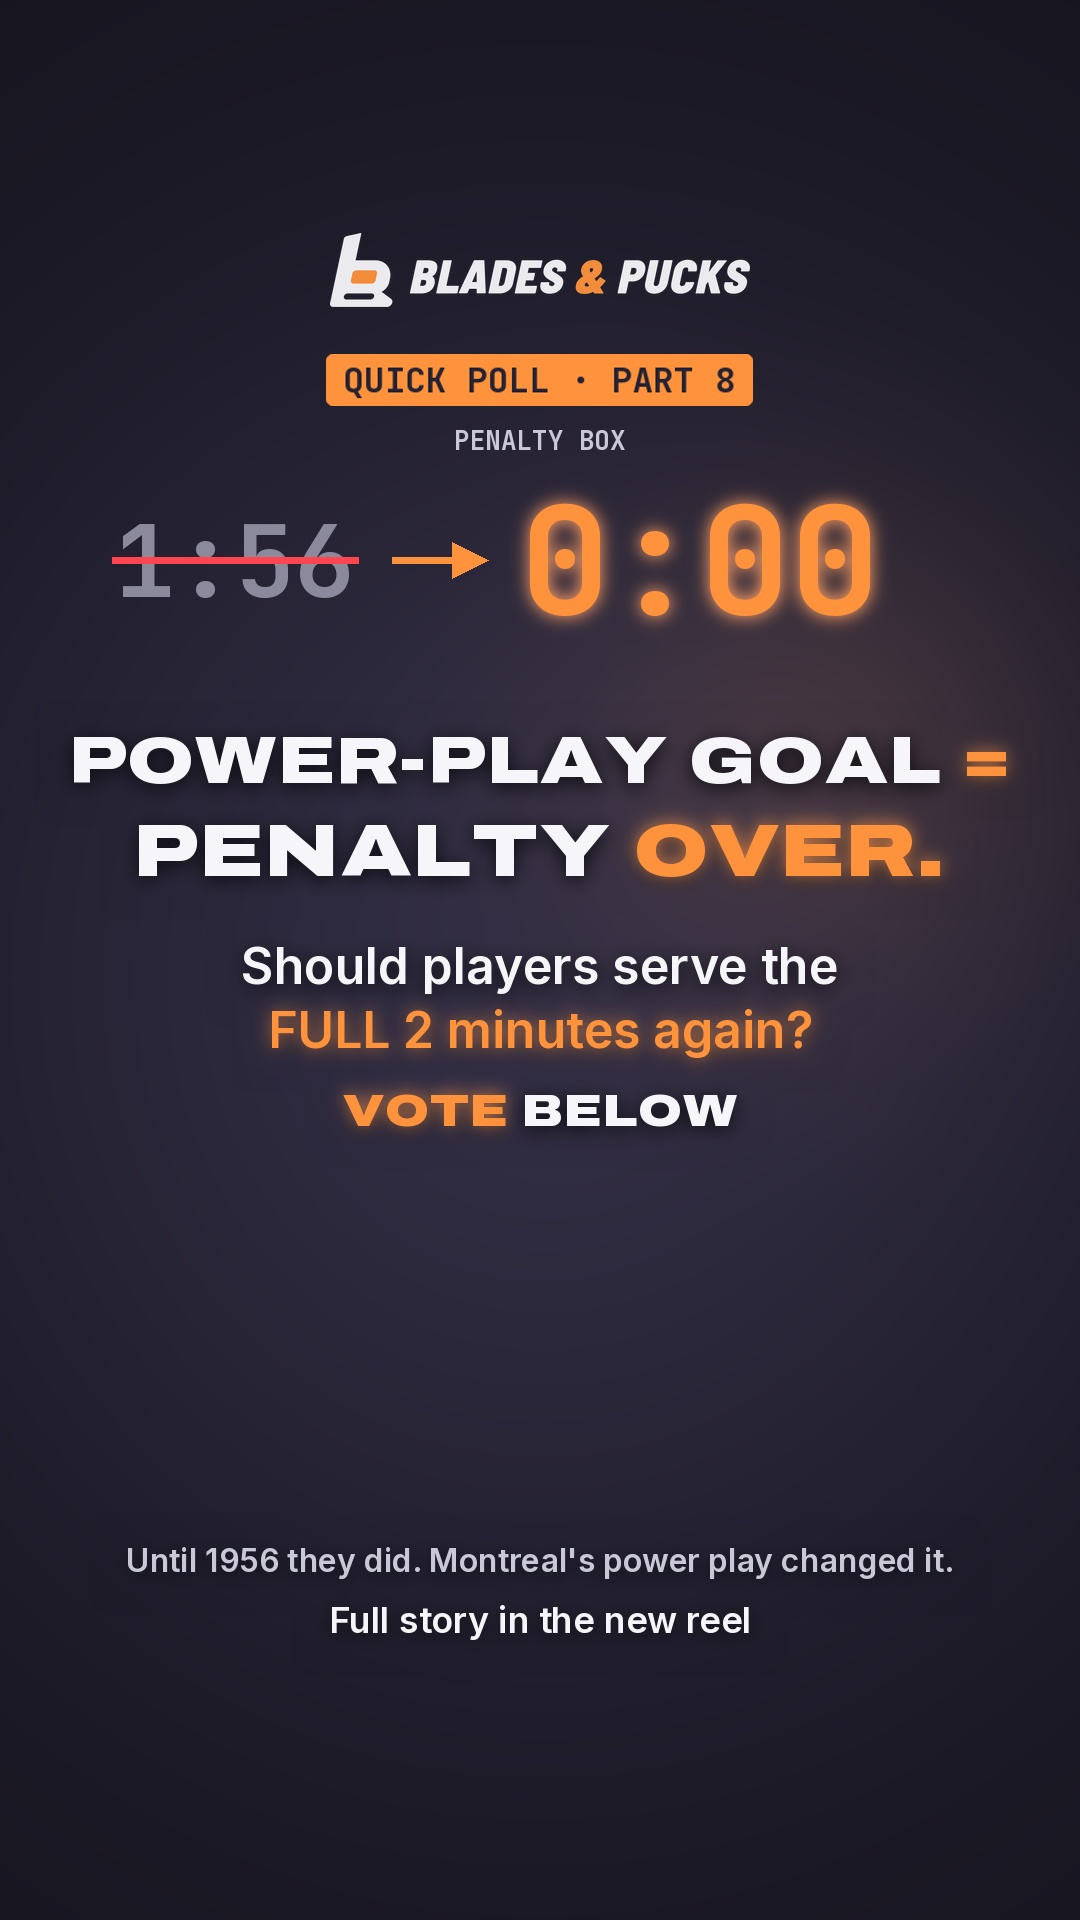
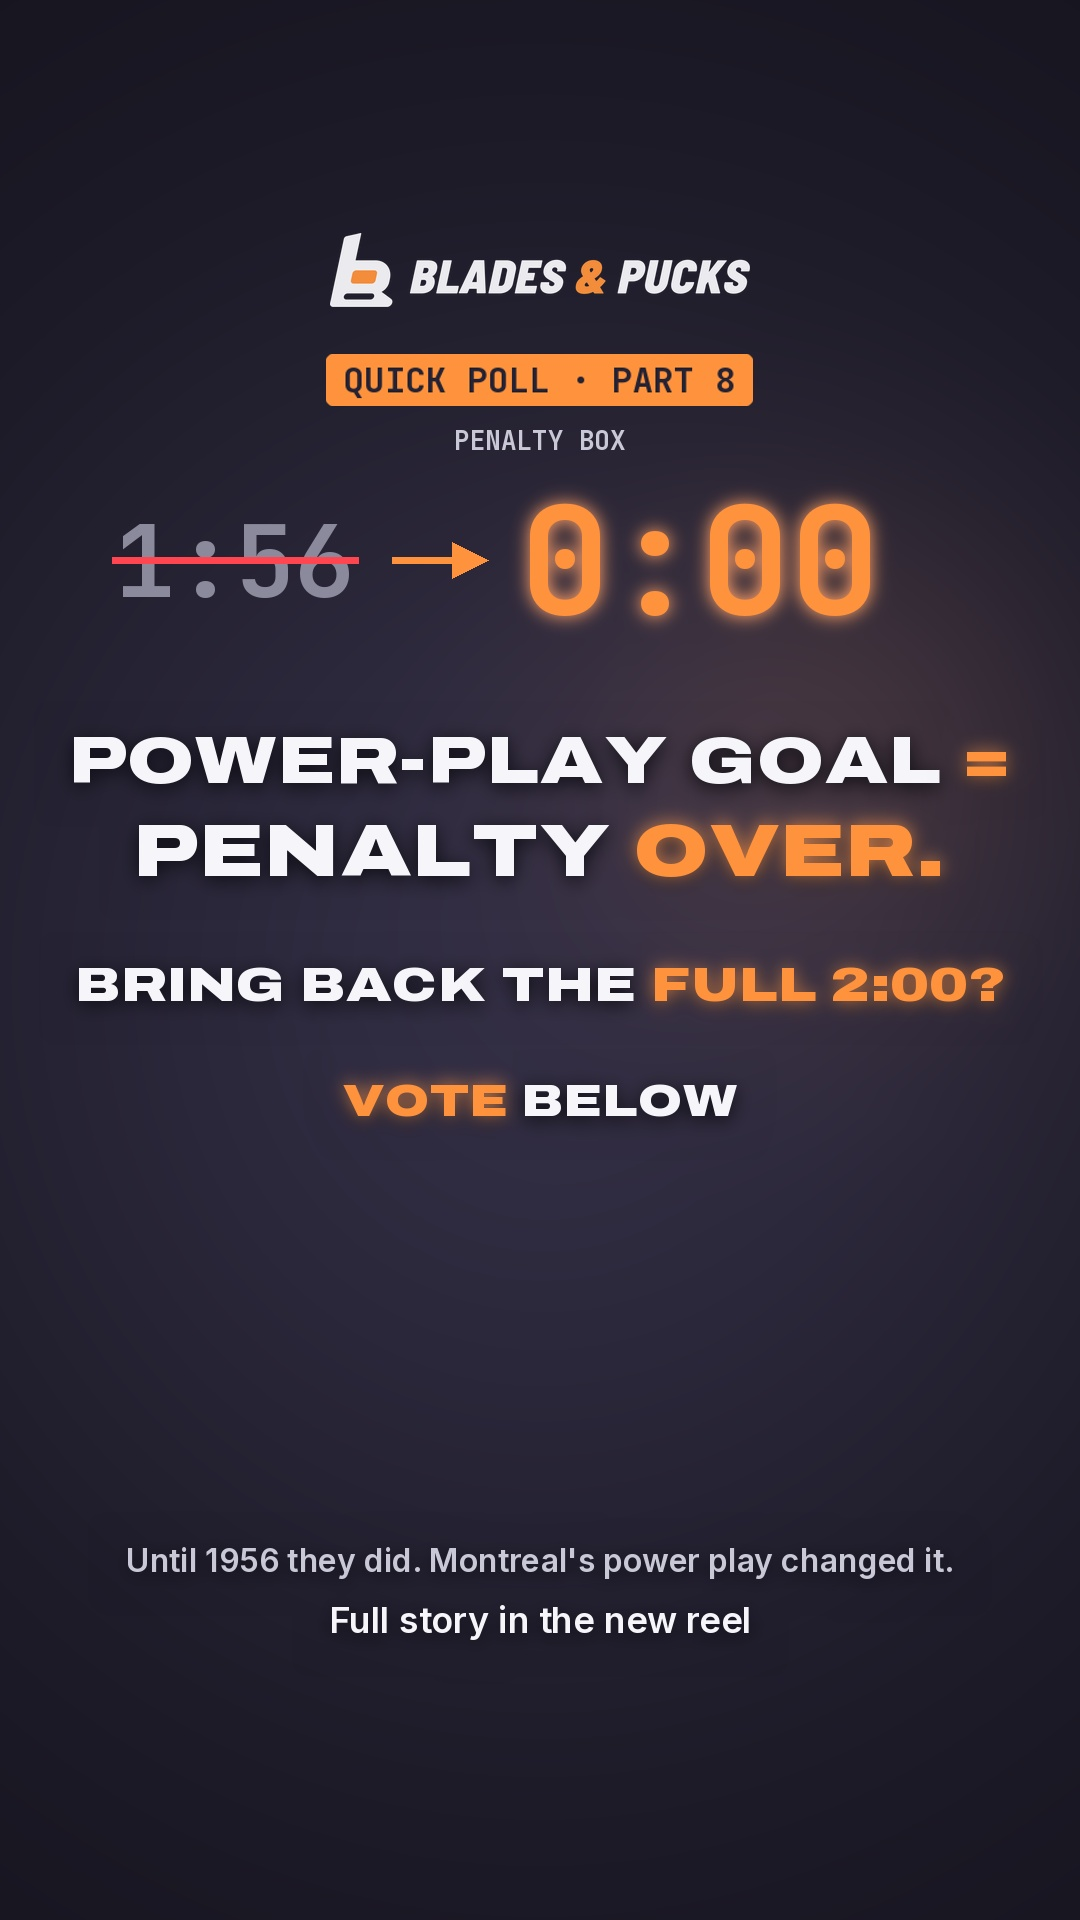
Umfrage-Story: kürzere Frage ('Bring back the full 2:00?')
Claude-Session: https://claude.ai/code/session_01BetfT43jNLNnGvwcngabuh

Changed region(s): [[0.0611, 0.4688, 0.9472, 0.5938]]

diff --git a/hockey-reel/story_poll8.py b/hockey-reel/story_poll8.py
@@ -33,10 +33,10 @@ def main():
     # Frage
     N.NLine([("POWER-PLAY", WHITE), ("GOAL", WHITE), ("=", ORANGE)], "x9", 74, 540, 760, [-5] * 3, None).render(img, 0)
     N.NLine([("PENALTY", WHITE), ("OVER.", ORANGE)], "x9", 74, 540, 850, [-5] * 2, None).render(img, 0)
-    N.NLine([("Should players serve the", WHITE)], "in6", 50, 540, 965, [-5], None, track=0).render(img, 0)
-    N.NLine([("FULL 2 minutes again?", ORANGE)], "in6", 50, 540, 1030, [-5], None, track=0).render(img, 0)
+    N.NLine([("BRING", WHITE), ("BACK", WHITE), ("THE", WHITE), ("FULL", ORANGE), ("2:00?", ORANGE)], "x9", 60, 540, 985,
+            [-5] * 5, None).render(img, 0)
     # Platz für den Umfrage-Sticker (ca. y 1150-1450) + Hinweis
-    N.NLine([("VOTE", ORANGE), ("BELOW", WHITE)], "x9", 44, 540, 1110, [-5] * 2, None).render(img, 0)
+    N.NLine([("VOTE", ORANGE), ("BELOW", WHITE)], "x9", 44, 540, 1100, [-5] * 2, None).render(img, 0)
     N.NLine([("Until 1956 they did. Montreal's power play changed it.", GREY)], "in6", 32, 540, 1560, [-5], None,
             track=0, maxw=980).render(img, 0)
     N.NLine([("Full story in the new reel", WHITE)], "in6", 36, 540, 1620, [-5], None, track=0).render(img, 0)
